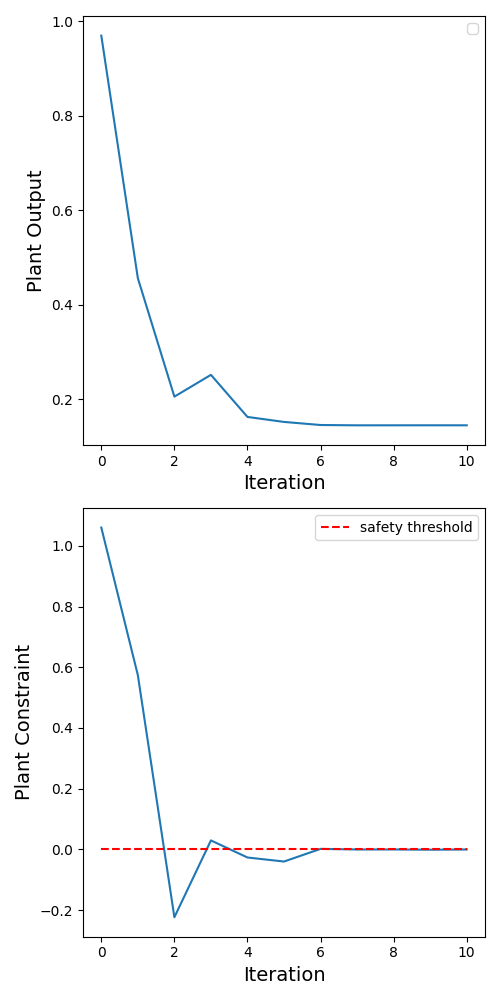
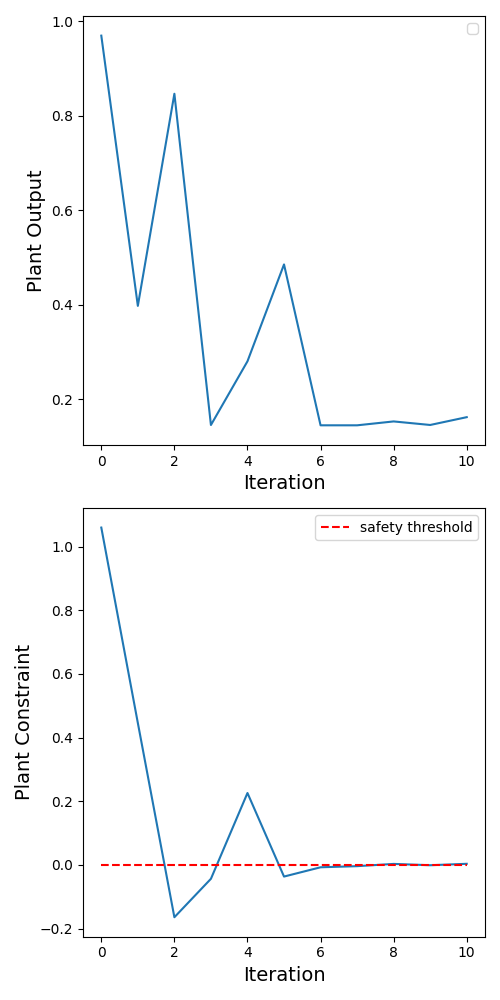
.

diff --git a/BayesRTOjax.py b/BayesRTOjax.py
@@ -354,7 +354,7 @@ class BayesianOpt():
                                                jac=obj_grad,options=options,tol=1e-8)
             
             for con in cons:
-                if con['fun'](res.x) < -0.1:
+                if con['fun'](res.x) < -0.01:
                     passed = False
                     break # Barrier when minimize significantly fails 
                 else:
@@ -363,15 +363,11 @@ class BayesianOpt():
                     localsol.append(res.x)
                     localval.append(res.fun)
 
-        print(localval)
         localsol                    = jnp.array(localsol)
         localval                    = jnp.array(localval)
         minindex                    = jnp.argmin(localval)
-        print(minindex)
         xopt                        = localsol[minindex]
-        print(x_0+xopt)
         funopt                      = localval[minindex]
-        print(funopt)
         return xopt, funopt
     
     def obj_fun(self, x, b):
@@ -386,7 +382,7 @@ class BayesianOpt():
         GP_inference                = self.GP_inference_np_jit(x)
         mean                        = GP_inference[0][index]
         std                         = jnp.sqrt(GP_inference[1][index])
-        # value                       = mean + b*std
+        # value                       = mean - b*std
         value                       = mean
 
         return value
@@ -446,7 +442,7 @@ class BayesianOpt():
             # Trust Region Update:
             x_new, radius_new       = self.update_TR(x_initial,x_initial+d_new,radius,
                                                      TR_parameters,data_storage)
-            print(f"x_new: {x_new}")
+            
             # Add sample to Gaussian Process
             self.add_sample(x_initial+d_new,plant_output)
 
@@ -511,22 +507,18 @@ class BayesianOpt():
 
         
         if plant_previous < plant_now:
-            print(f"worse step")
             return x_initial, r*r_red
         else:
             pass
         
         if rho < rho_lb:
-            print('too low rho')
             return x_initial, r*r_red
         
         elif rho >= rho_lb and rho < rho_ub: 
-            print("moderate rho")
             data_storage.data['plant_temporary'][0][0] = plant_now
             return x_new, r
         
         else: # rho >= rho_ub
-            print("big rho")
             data_storage.data['plant_temporary'][0][0] = plant_now
             return x_new, min(r*r_inc,r_max)
         

diff --git a/test/test_BayesRTOjax.py b/test/test_BayesRTOjax.py
@@ -203,8 +203,8 @@ def test_RTOminimize_Benoit():
 
     # Real-Time Optimization 
     n_iter = 10
-    multi_start=5
-    b = 0.
+    multi_start= 5
+    b = 3.
     TR_parameters = {
         'radius': 0.5,
         'radius_max': 1,
